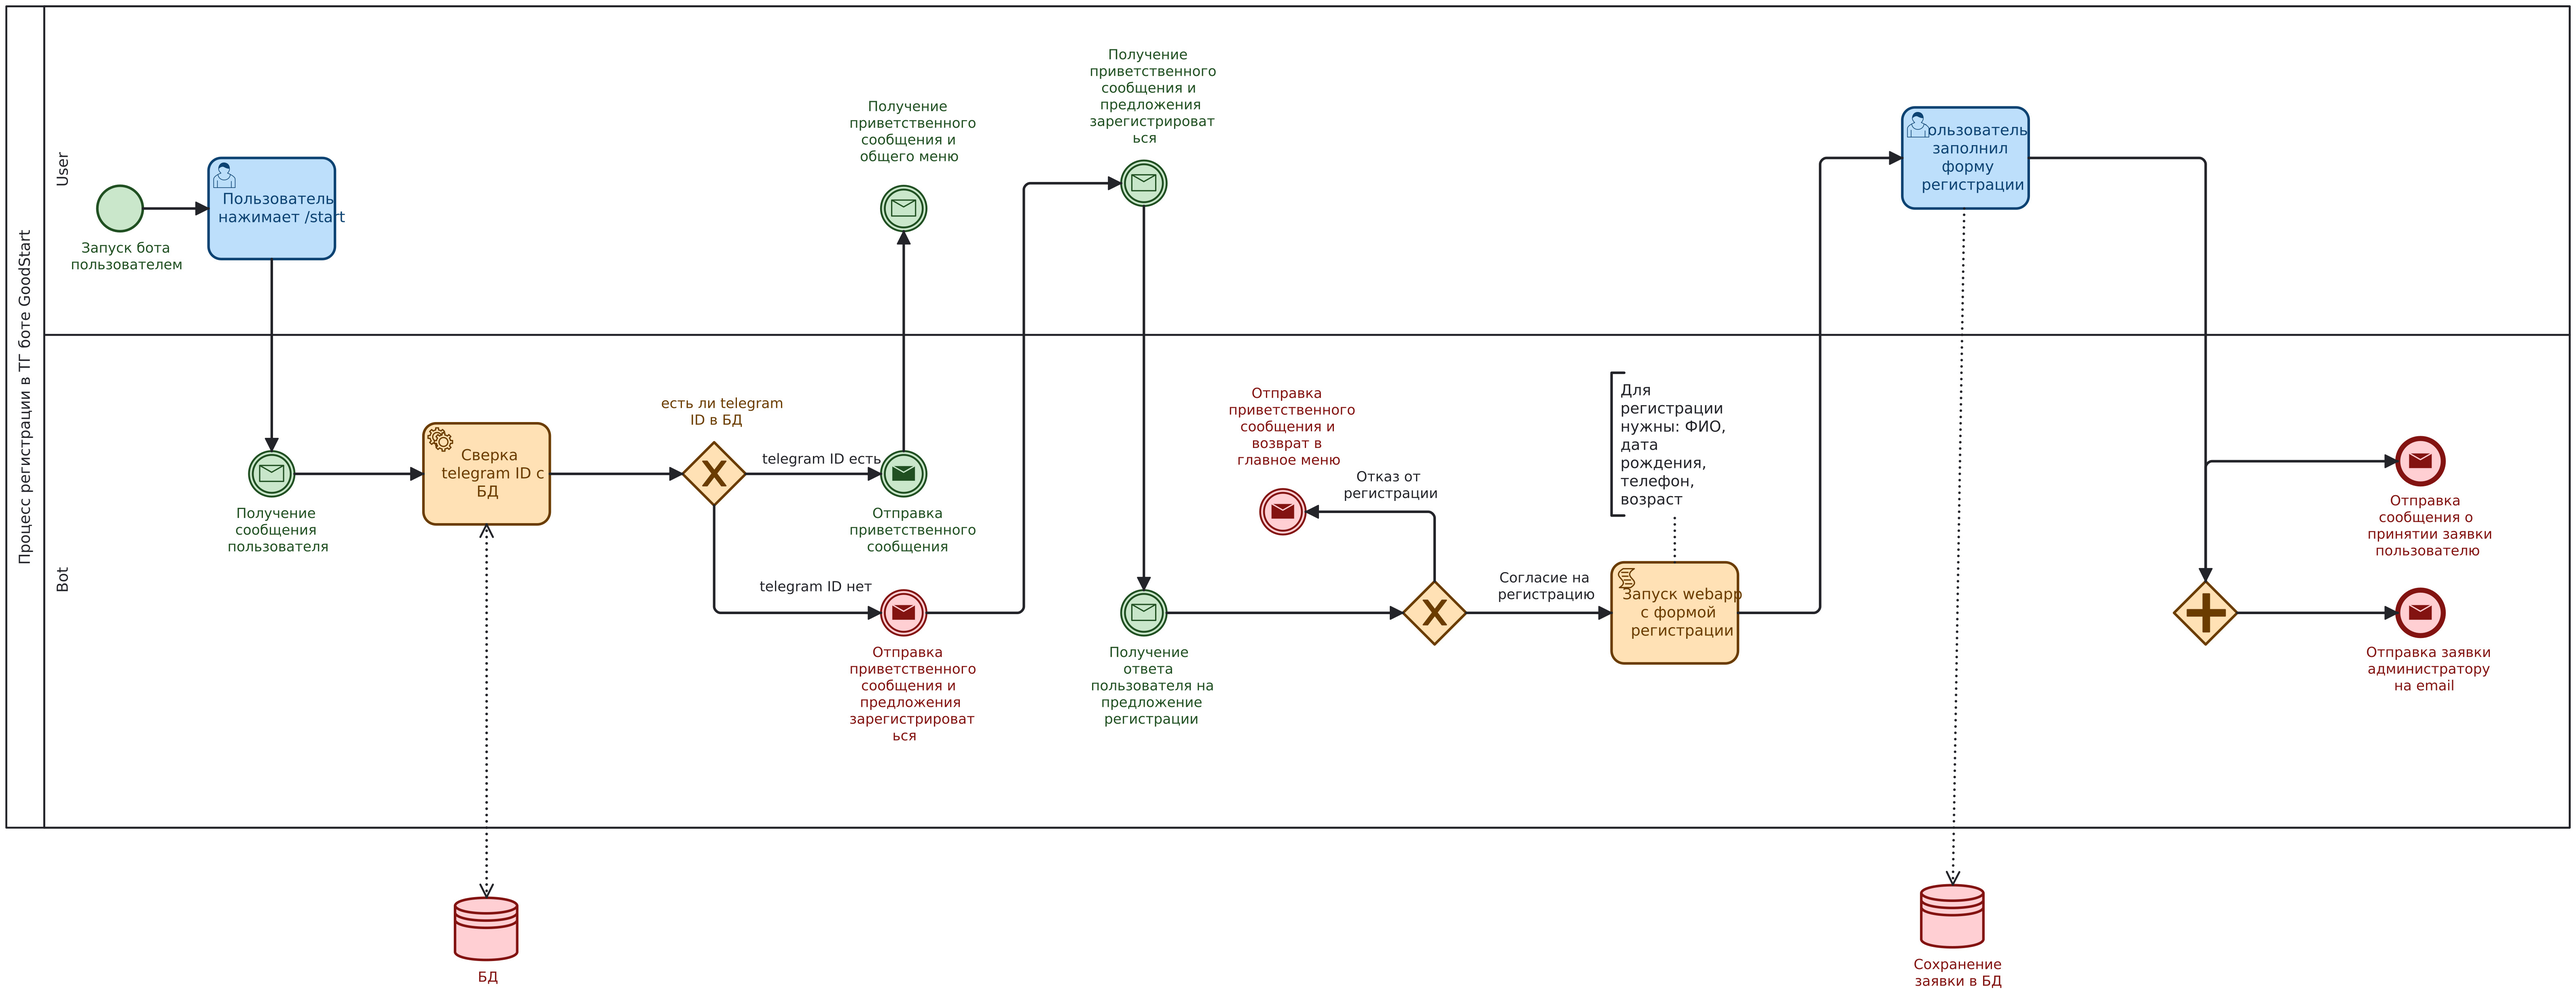
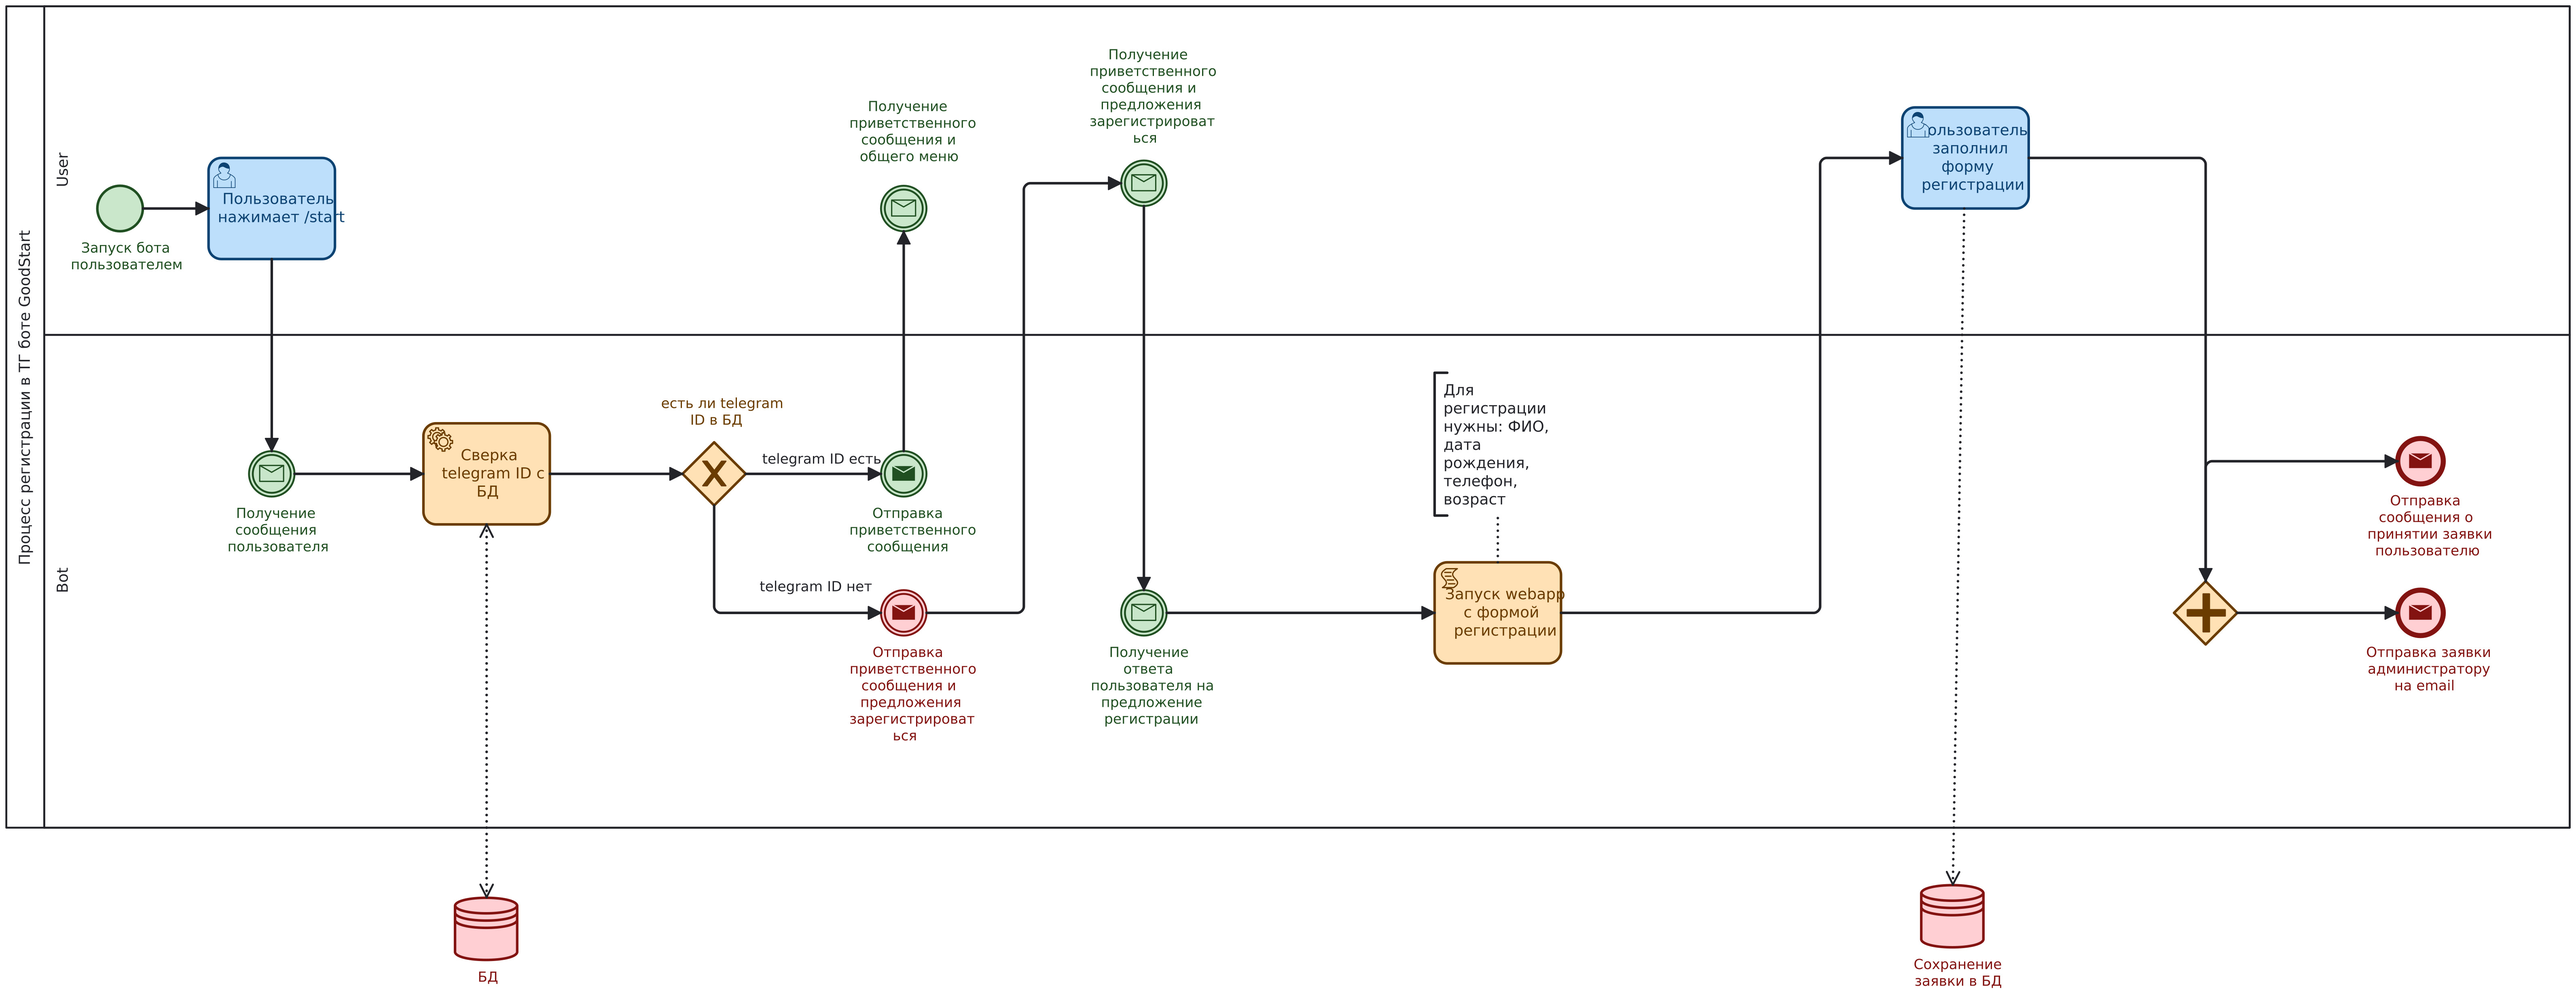
В документах поправлена схема регистрации пользователя: отказ от регистрации не принимается, только предложение зарегистрироваться с переводом в web_app форму. Заменен .jpg-файл соответственно. Убран хендлер отказа от регистрации. Поправлены кнопки в хендрлере "/start".

diff --git a/src/bot/handlers/registration.py b/src/bot/handlers/registration.py
@@ -37,27 +37,6 @@ async def user_consent_to_registration(
         ),
     )
 
-
-@log_errors
-async def user_refuses_to_registration(
-    update: Update,
-    context: ContextTypes.DEFAULT_TYPE
-):
-    """
-    `/refuses` command handler.
-
-    Add description.
-    """
-    telegram_id = update.effective_chat.id
-    await context.bot.send_message(
-        chat_id=telegram_id,
-        text='Test message refuses',
-    )
-
-
 registration_handler = CommandHandler(
     'registration', user_consent_to_registration
-)
-refuses_registration_handler = CommandHandler(
-    'refuses', user_refuses_to_registration
 )

diff --git a/src/bot/bot_interface.py b/src/bot/bot_interface.py
@@ -8,8 +8,7 @@ from loguru import logger
 from telegram.ext import ApplicationBuilder, Application
 
 from bot.handlers import (
-    echo_handler, start_handler, registration_handler,
-    refuses_registration_handler
+    echo_handler, start_handler, registration_handler
 )
 
 
@@ -52,7 +51,6 @@ class Bot:
         app.add_handler(start_handler)
         app.add_handler(echo_handler)
         app.add_handler(registration_handler)
-        app.add_handler(refuses_registration_handler)
         logger.info('Bot application built with handlers.')
         return app
 

diff --git a/src/bot/handlers/start.py b/src/bot/handlers/start.py
@@ -19,9 +19,9 @@ async def start(update: Update, context: ContextTypes.DEFAULT_TYPE):
     user = await check_user_from_db(telegram_id, (Teacher, Student))
 
     registration_buttons = ReplyKeyboardMarkup(
-        [['/registration', '/refuses']],
+        [['/registration']],
         resize_keyboard=True
-        )
+    )
 
     if user:
         await context.bot.send_message(

diff --git a/src/bot/handlers/__init__.py b/src/bot/handlers/__init__.py
@@ -1,5 +1,3 @@
 from bot.handlers.echo import echo_handler  # noqa
 from bot.handlers.start import start_handler  # noqa
-from bot.handlers.registration import (  # noqa
-    registration_handler, refuses_registration_handler
-)
+from bot.handlers.registration import registration_handler  # noqa
